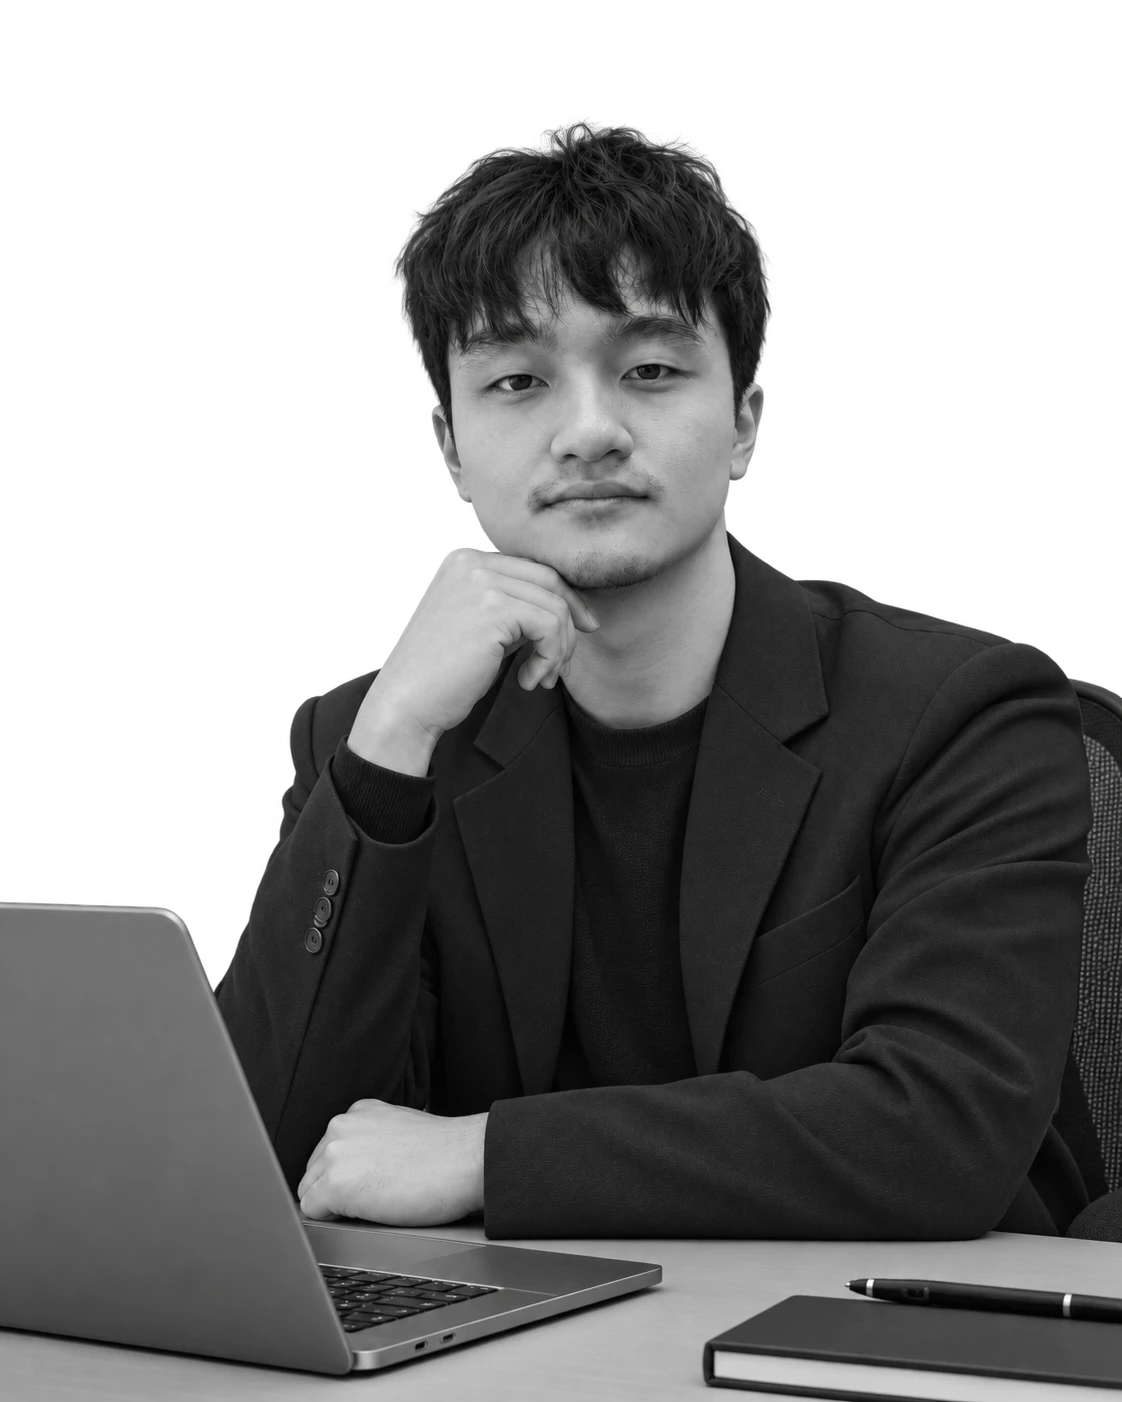
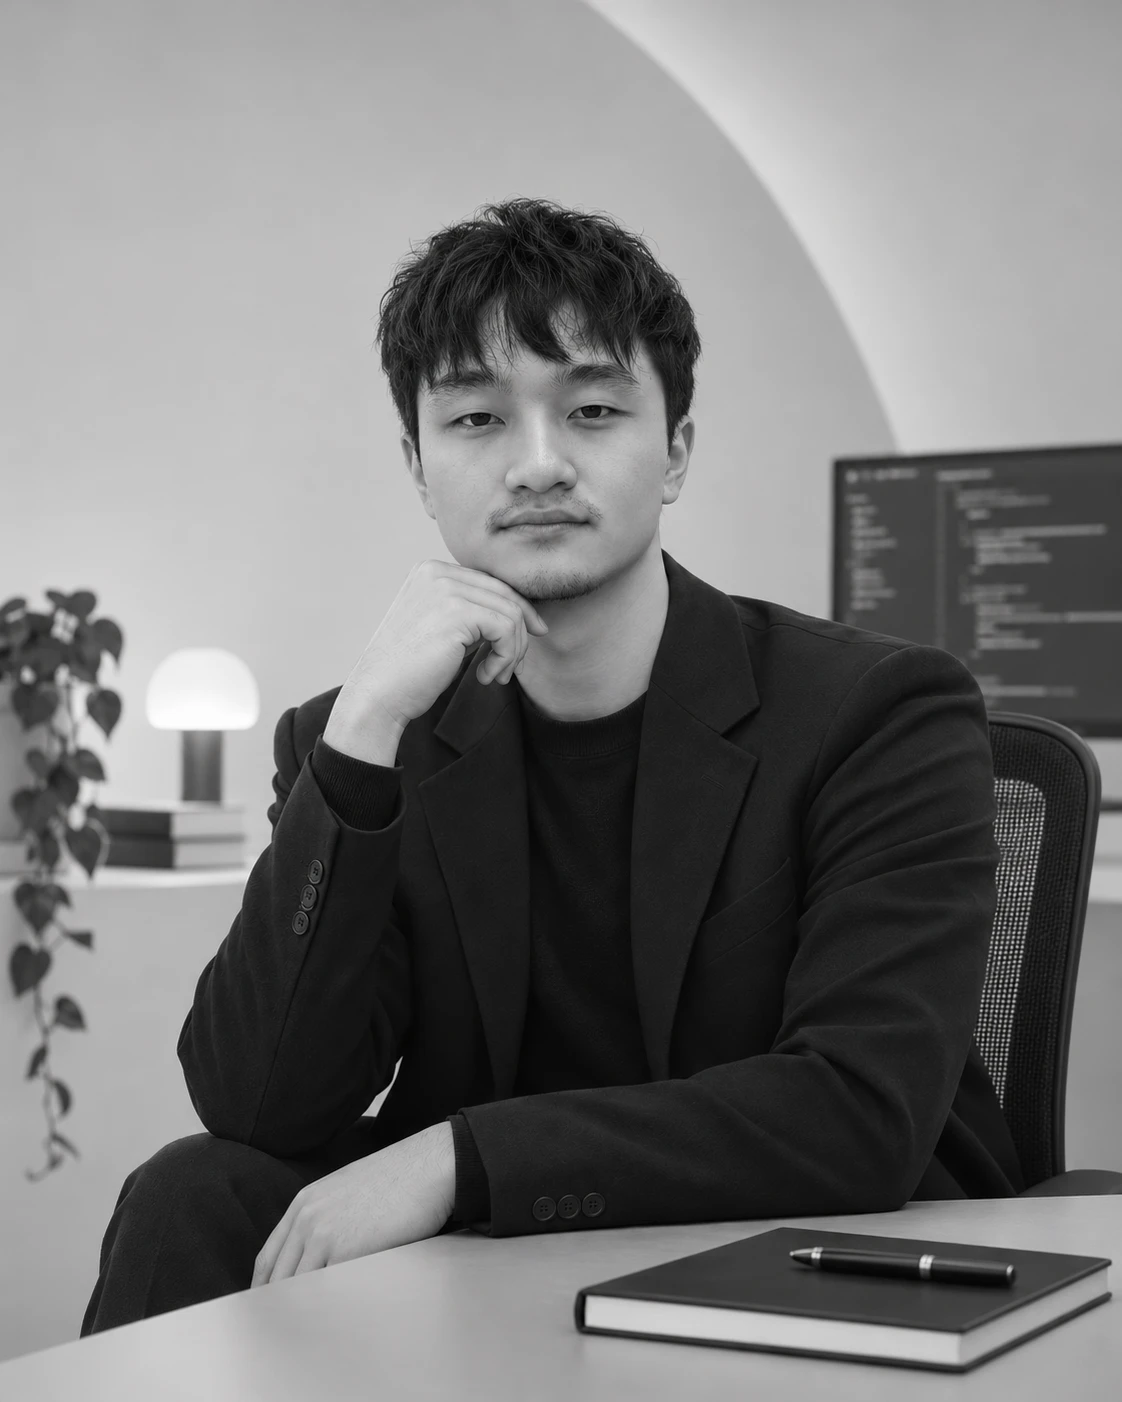
update home and about hero section image

diff --git a/components/site/hero.tsx b/components/site/hero.tsx
@@ -81,13 +81,16 @@ export function Hero({
             <div>
               {/* A cut-out photo on a dotted grid, with the stack as floating chips and a terminal card in front. */}
               <div className="hero-stage dot-grid">
-                <SmartImage
-                  src={site.heroImageUrl}
-                  alt={fmt(dict.home.heroPhotoAlt, { name: site.heroTitle })}
-                  sizes="(min-width: 1024px) 34vw, 92vw"
-                  priority
-                  className="object-cover object-top"
-                />
+                {/* Full-body cut-out: shown whole, standing above the part of the stage the terminal card overlaps. */}
+                <div className="absolute inset-x-0 top-[3%] bottom-[8%]">
+                  <SmartImage
+                    src={site.heroImageUrl}
+                    alt={fmt(dict.home.heroPhotoAlt, { name: site.heroTitle })}
+                    sizes="(min-width: 1024px) 34vw, 92vw"
+                    priority
+                    className="object-contain object-bottom"
+                  />
+                </div>
                 {top.map((name, i) => (
                   <span key={name} className={`tech-chip tech-chip-${i}`}>
                     <TechIcon name={name} size="sm" className="!rounded-full" />

diff --git a/app/globals.css b/app/globals.css
@@ -578,7 +578,7 @@ body {
   }
   .hero-stage {
     position: relative;
-    aspect-ratio: 4 / 5;
+    aspect-ratio: 5 / 7;
     overflow: hidden;
     border-radius: var(--radius-card);
   }
